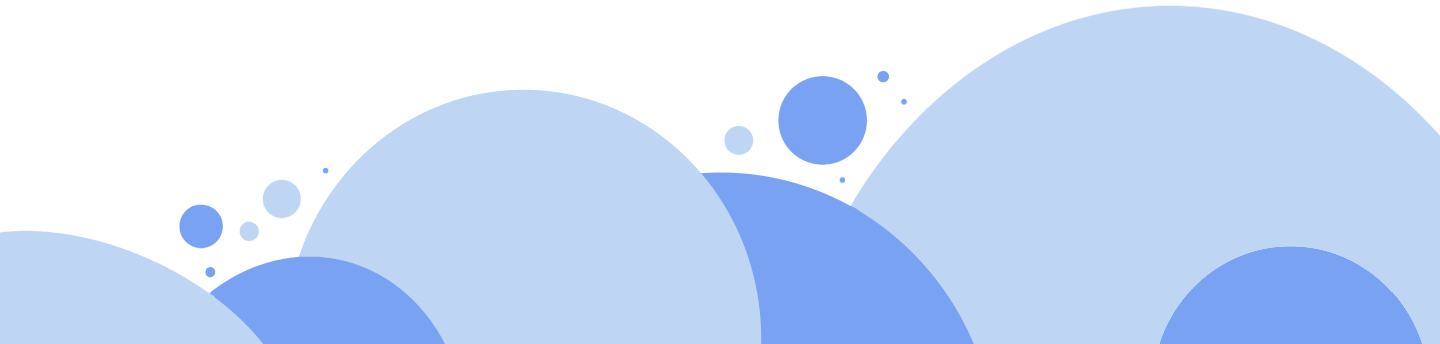
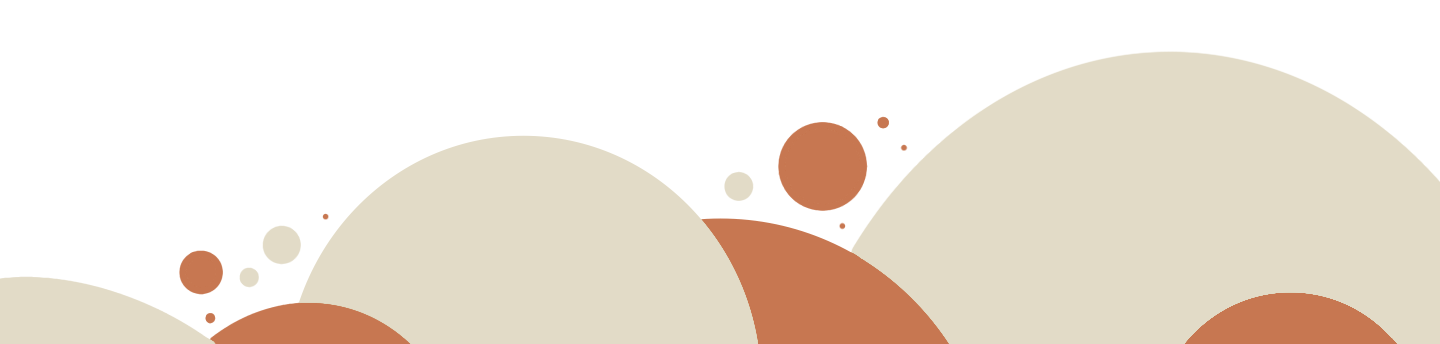
Updated CSS

diff --git a/index.html b/index.html
@@ -37,43 +37,46 @@
     ></script>
   </head>
   <body>
-    <div class="container">
-      <nav class="d-flex justify-content-between">
-        <div>
-          <a href="/">
-            <img
-              src="photos/Logo (1).png"
-              class="logo"
-              alt="Crystal's Logo"
-              title="Home Page"
-            />
-          </a>
-        </div>
-        <ul>
-          <li class="active">
-            <a href="/" title="Home Page">Home</a>
-          </li>
-          <li>
-            <a href="/about.html" title="About Crystal">About</a>
-          </li>
-          <li>
-            <a href="/work.html" title="Crystal's Work">Work</a>
-          </li>
-          <li>
-            <a href="/contact.html" title="Contact Crystal">Contact</a>
-          </li>
-        </ul>
-      </nav>
-    </div>
     <div class="hero">
-      <h2>Hi I'm</h2>
-      <span class="line"
-        ><h1 id="text"></h1>
-        |</span
-      >
+      <div class="container">
+        <nav class="d-flex justify-content-between">
+          <div>
+            <a href="/">
+              <img
+                src="photos/Logo (2).png"
+                class="logo"
+                alt="Crystal's Logo"
+                title="Home Page"
+              />
+            </a>
+          </div>
+          <ul>
+            <li class="active">
+              <a href="/" title="Home Page">Home</a>
+            </li>
+            <li>
+              <a href="/about.html" title="About Crystal">About</a>
+            </li>
+            <li>
+              <a href="/work.html" title="Crystal's Work">Work</a>
+            </li>
+            <li>
+              <a href="/contact.html" title="Contact Crystal">Contact</a>
+            </li>
+          </ul>
+        </nav>
+      </div>
 
-      <h3 class="mb-5">Frontend Developer, based in Central Valley</h3>
-      <a href="/contact.html" class="btn btn-branding">Contact Me</a>
+      <div class="hero-content">
+        <h2>Hi I'm</h2>
+        <span class="line"
+          ><h1 id="text"></h1>
+          |</span
+        >
+
+        <h3 class="mb-5">Frontend Developer, based in Central Valley</h3>
+        <a href="/contact.html" class="btn btn-branding">Contact Me</a>
+      </div>
     </div>
     <p class="text-center m-5">Featured Projects</p>
 
@@ -313,7 +316,9 @@
       </div>
       <h6 class="text-center mb-5">
         This website was coded by Crystal Lopez and is
-        <a href="https://github.com/crystal-lpz/portfolio-website.git"
+        <a
+          href="https://github.com/crystal-lpz/portfolio-website.git"
+          target="_blank"
           >open-sourced</a
         >.
       </h6>

diff --git a/style/style.css b/style/style.css
@@ -1,16 +1,20 @@
 :root {
-  --branding-color: #79a2f2;
-  --secondary-color: #bed5f3;
-  --accent-color: #f2e0bd;
-  --font-color: #021b3d;
-  --box-shadow: 3px 3px 10px #797c8375;
+  --branding-color: #d66a3b;
+  --secondary-color: #e6d7b6;
+  --accent-color: #e6daba;
+  --body-color: #f4f0e4;
+  --font-color: #553a31;
+  --box-shadow: 12px 12px 2px 1px rgba(242, 107, 29, 0.281);
+  --box-shadow-main: 7px 7px 0px 0px rgba(242, 107, 29, 0.281);
+
+  --transition: all 0.4s ease-out;
   --heading-font-family: "Playfair Display", serif;
   --default-font-family: "Poppins", sans-serif;
 }
 
 body {
   font-family: var(--default-font-family);
-  background-color: #e1ebf89f;
+  background-color: var(--body-color);
   color: var(--font-color);
 }
 
@@ -51,8 +55,11 @@ p {
 }
 .hero {
   text-align: center;
-  padding: 130px 20px;
+  padding: 0;
   background-color: var(--secondary-color);
+}
+.hero-content {
+  padding: 130px 20px;
 }
 .btn-branding {
   color: white;
@@ -61,7 +68,14 @@ p {
   font-weight: 500;
   padding: 18px 30px;
   line-height: 27px;
+  box-shadow: var(--box-shadow-main);
+  transition: var(--transition);
+}
+.btn-branding:hover {
+  background-color: var(--font-color);
+  color: var(--body-color);
   box-shadow: var(--box-shadow);
+  transition: var(--transition);
 }
 .btn-branding-outline {
   color: var(--branding-color);
@@ -70,7 +84,12 @@ p {
   font-weight: 500;
   padding: 18px 30px;
   line-height: 27px;
+  box-shadow: var(--box-shadow-main);
+  transition: var(--transition);
+}
+.btn-branding-outline:hover {
   box-shadow: var(--box-shadow);
+  transition: var(--transition);
 }
 .btn-branding-outline-sm {
   color: var(--branding-color);
@@ -100,7 +119,7 @@ p {
 }
 .icons-programs {
   max-width: 50px;
-  filter: sepia(50%) hue-rotate(162deg);
+  filter: sepia(50%) hue-rotate(1deg);
 }
 .icons-programs-react {
   max-width: 50px;
@@ -120,7 +139,6 @@ p {
 }
 .website-photo {
   background-color: var(--secondary-color);
-  box-shadow: var(--box-shadow);
 }
 .logo {
   max-width: 80px;
@@ -151,7 +169,7 @@ nav li {
 }
 nav a {
   text-decoration: none;
-  color: #272142;
+  color: var(--font-color);
 }
 nav li.active a,
 nav a:hover {

diff --git a/about.html b/about.html
@@ -41,7 +41,7 @@
         <div>
           <a href="/">
             <img
-              src="photos/Logo (1).png"
+              src="photos/Logo (2).png"
               class="logo"
               alt="Crystal's Logo"
               title="Home Page"
@@ -112,6 +112,13 @@
         </div>
         <div class="col-sm">
           <img src="photos/certificates/React.png" class="img-fluid" alt="" />
+        </div>
+        <div class="col-sm">
+          <img
+            src="photos/certificates/Advanced Responsive Web.png"
+            class="img-fluid"
+            alt=""
+          />
         </div>
       </div>
     </div>

diff --git a/contact.html b/contact.html
@@ -41,7 +41,7 @@
         <div>
           <a href="/">
             <img
-              src="photos/Logo (1).png"
+              src="photos/Logo (2).png"
               class="logo"
               alt="Crystal's Logo"
               title="Home Page"
